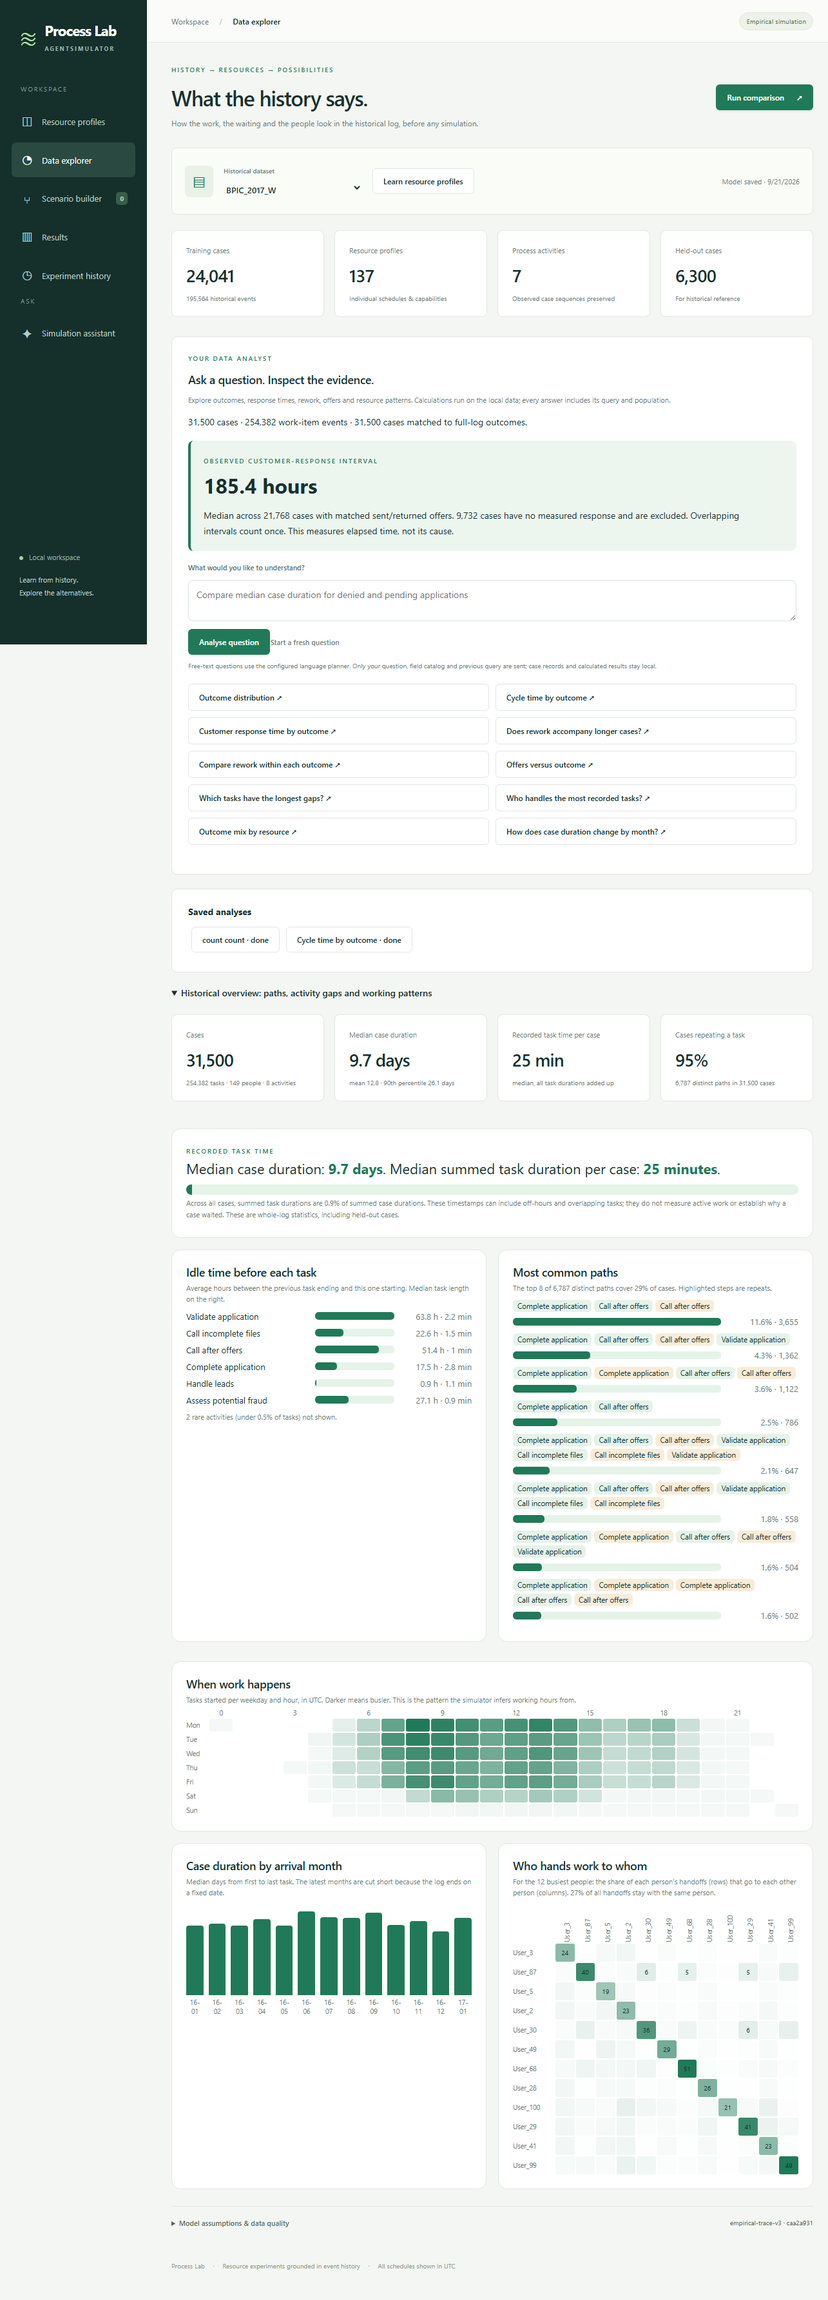
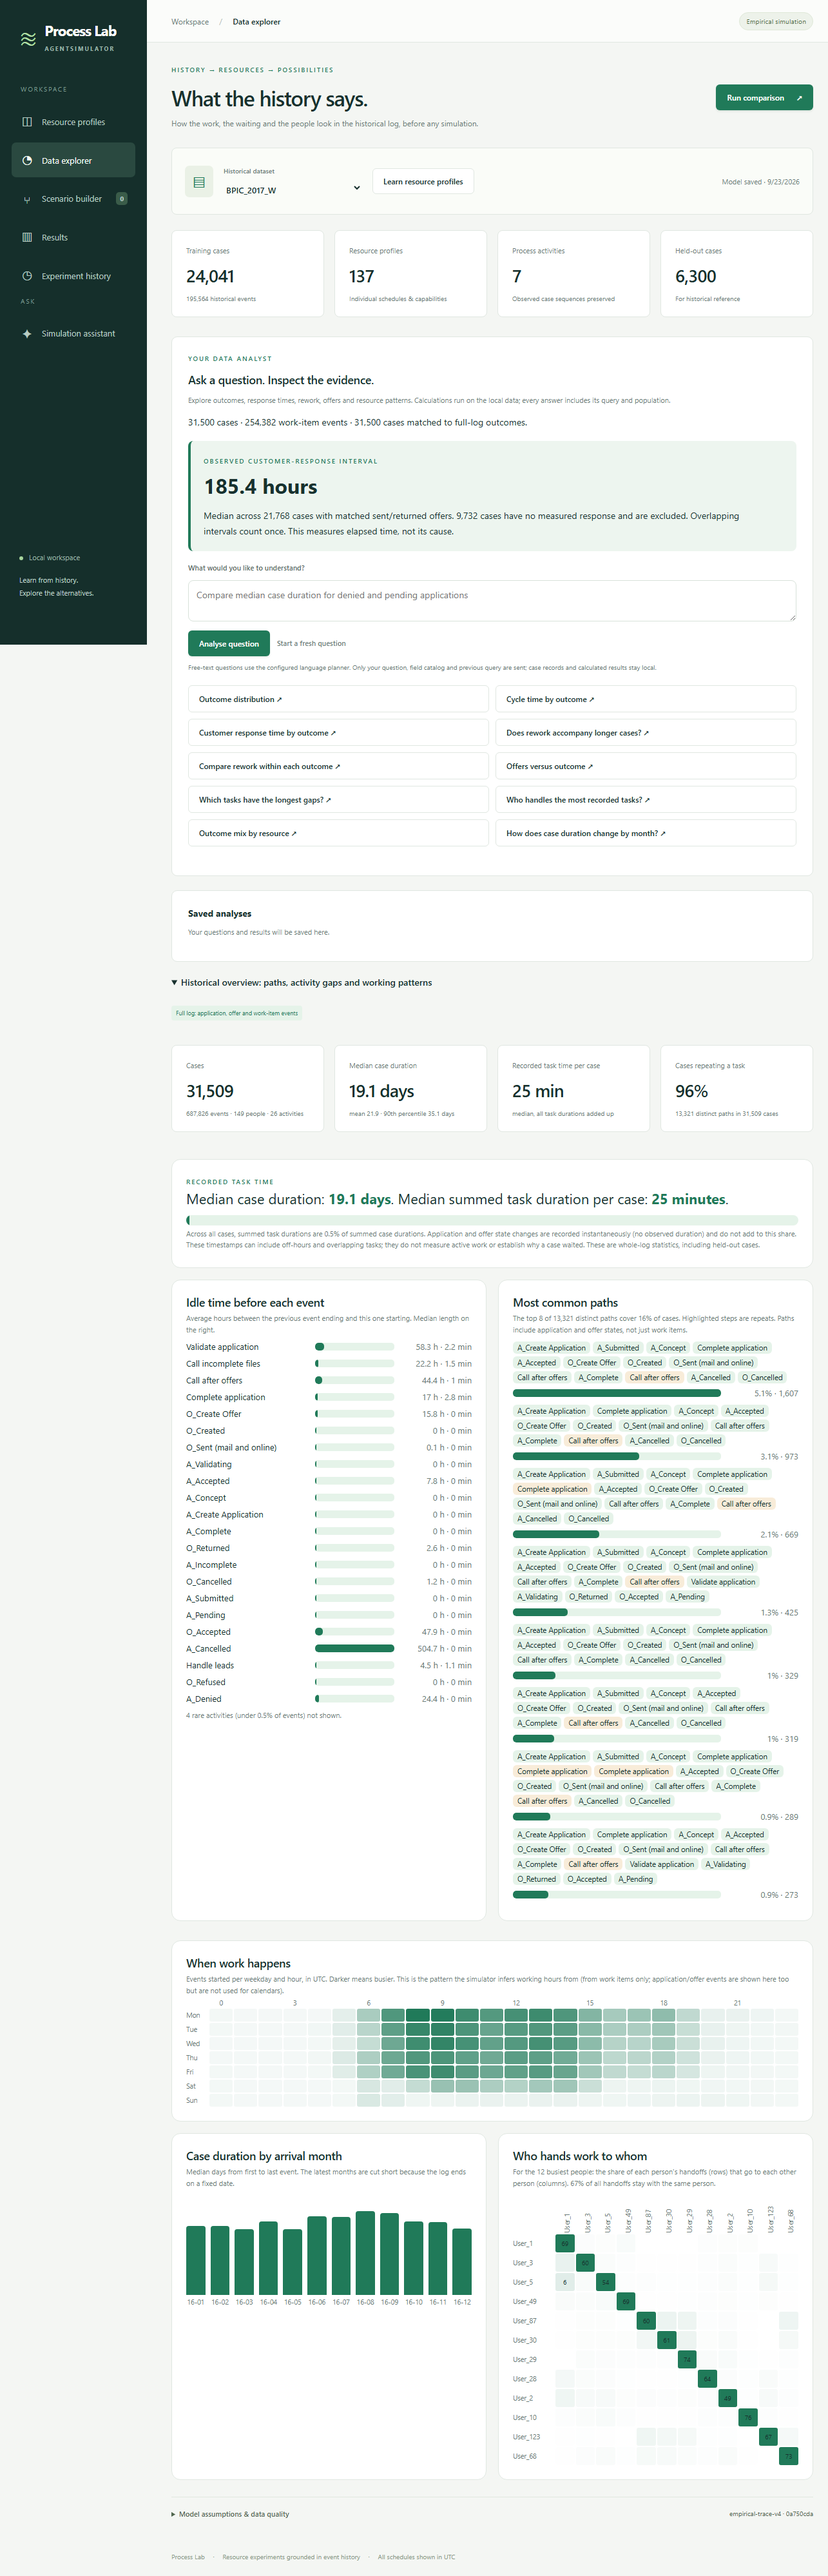
Docs: correct the headline cycle-time claim (9.7 -> 19.1 days) and its cause

diff --git a/PROJECT_GUIDE.md b/PROJECT_GUIDE.md
@@ -24,7 +24,7 @@
 
 **The five things the data actually says** (§3, §4):
 
-1. In BPI 2017, a typical case takes **9.7 days** door to door but only **~25 minutes of hands-on work**. Hands-on work is **0.9 %** of elapsed time. The rest is waiting.
+1. In BPI 2017, a typical case takes **19.1 days** door to door (using only the human work-item subset understates this at 9.7 days) but only **~25 minutes of hands-on work**. Hands-on work is **0.5 %** of elapsed time. The rest is waiting.
 2. Most of that waiting is **not** caused by lack of staff: system utilisation in the model is ~6 %. It is caused by *external* delays (customer callbacks, documents arriving).
 3. Consequently, **adding or removing people barely moves cycle time** (removing the single busiest person: −0.2 %; adding three copies of them: −0.2 %), while **halving the external delays** moves it by ~37 %.
 4. The one lever inside the organisation that *does* matter is **how work is allocated**: sending each task to the *earliest available qualified person* instead of the historically preferred person cuts queue wait by 96 % (61 h → 2 h) and cycle time by ~18 %.
@@ -155,7 +155,9 @@ All computed directly from `raw_data/BPIC_2017_W.csv`.
 | Typical single work item | 0.5–5 min (median 1.65 min) |
 | Median gap between two consecutive work items in a case | **4.3 h**, but for `Validate application` it is **21.9 h** (mean 64 h) and for `Call after offers` **17.3 h** (mean 51 h) |
 
-So a case is a ~25-minute job that takes ~10 days. **The improvement opportunity is in the gaps, not in the tasks.** Monthly median cycle time is remarkably flat (8.2–10.9 days), so the process is stable over the year — a good sign for training on the past to predict the future.
+So a case is a ~25-minute job that takes ~10 days by the work-item subset alone. **The improvement opportunity is in the gaps, not in the tasks.** Monthly median cycle time is remarkably flat (8.2–10.9 days), so the process is stable over the year — a good sign for training on the past to predict the future.
+
+**This table understates the true cycle time.** It's built from `W_` work items only — the last recorded event of a case is often the last thing a *human* did, not when the case actually closed. Data Explorer now also loads the full log (`A_`/`O_`/`W_` events, via `scripts/extract_full_log.py`) and the true median jumps to **19.1 days** (mean 21.9, p90 35.1) — nearly double. Touch-time share drops from 0.9% to 0.5%: waiting is even more dominant than this table shows. The gap is time between the last work item and the case's formal close (an automated step, or the customer simply not responding) — itself a finding, not an artefact. §6 and `WORKBENCH.md` have the detail; the simulator's own model (§5, §6) is unaffected, since it correctly uses only `W_` events for resource capacity regardless.
 
 ### 3.3 People: many generalists, moderate concentration, calendar of a real office
 - **149 resources.** Top 10 do 24 % of events, top 20 do 39 %, the bottom half of the workforce does only 13 %.
@@ -401,6 +403,18 @@ Baseline for these: mean cycle 327 h, mean queue wait 61.5 h, mean residual dela
     without AI, so the toggle implied the opposite of what was actually true and duplicated the
     presets with six dropdowns for no real benefit. A tenth preset, "Outcome mix by resource," was
     added in its place. See `WORKBENCH.md` ("Data Explorer as an analyst").
+12. **Data Explorer's own overview charts (idle time, common paths, hour-of-week heatmap, case
+    duration by month, handover matrix) were still `W_`-only** even after #11 gave the Data
+    Analyst the full log — the two features loaded different data. Fixed: `discover()` now
+    accepts an optional `full_events` frame (`webapp/workbench/full_log.py` streams the full XES
+    the same way `outcomes.py` does, pairing `W_` start/complete lifecycles and treating `A_`/`O_`
+    events as instantaneous) and uses it for these charts alone when available
+    (`raw_data/BPIC_2017_W.full_log.csv`, `scripts/extract_full_log.py`) — model version 4.
+    Resource profiles, calendars, templates and arrival days are computed from the `W_`-only frame
+    exactly as before; only the descriptive charts changed. This is what surfaced the corrected
+    19.1-day median cycle time in §3.2. Also fixed: `.actions` (the button row under the question
+    box and under a result) had no `display:flex`/`gap` rule at all — buttons sat touching, with
+    only a single collapsed inline-text space between them.
 
 **Still open**
 - **Keys:** `.env` holds ~13 credentials for several providers. It is git-ignored, but rotate any that were ever pasted into a chat, log or screenshot, and delete the ones this project does not use (it needs only DeepSeek and optionally LangSmith).

diff --git a/WORKBENCH.md b/WORKBENCH.md
@@ -205,6 +205,45 @@ missing-response denominators, filtering, conditional shares, source invalidatio
 planner boundaries, persistence and unsupported predictions. The local browser
 fixture checks charts, follow-up filtering, saved-result reload and mobile layout.
 
+#### The overview charts also use the full log now
+
+The Data Analyst above and the historical-overview charts (idle time, common paths,
+hour-of-week heatmap, case duration by month, handover matrix) used to read different
+data: the analyst joined the full log's case-level facts, but the overview charts were
+still built from the `W_` work-item CSV alone, understating the true process — a case's
+last recorded *work item* is often not when the case actually closed.
+
+```powershell
+./.venv/Scripts/python.exe scripts/extract_full_log.py `
+  raw_data/bpi2017/BPI_Challenge_2017.xes raw_data/BPIC_2017_W.full_log.csv
+```
+
+This streams the whole log — application (`A_*`), offer (`O_*`) and work-item (`W_*`)
+events — into a flat `case_id, activity, resource, start, end` CSV plus a provenance
+`.json`, the same pattern as `extract_outcomes.py`. Work items keep real durations from
+their start/complete lifecycle; every other activity is a single `complete` event with
+no matching start and is recorded as instantaneous (`start == end`), never fabricated.
+
+When this file exists, learning BPI 2017 again (model version 4) picks it up
+automatically and uses it **only** for the overview charts — `webapp/workbench/model.py`'s
+`discover()` takes it as an optional `full_events` argument that never touches resource
+profiles, calendars, templates or arrival days; those keep coming from the `W_`-only
+frame, so the simulator's resource-capacity model is byte-for-byte unaffected by whether
+a full log is available. `explore()`'s `full_log` flag tells the UI which data it's
+looking at, and its wording ("tasks" vs "events") follows accordingly.
+
+This is what corrected the headline cycle-time number: with the full log, median case
+duration is **19.1 days** (mean 21.9, p90 35.1), not the work-item-only 9.7 days — the
+"idle time before each event" chart now also shows the gap after the last work item and
+before the case's actual close (an automated step, or simply an unresponsive customer),
+which the work-item-only view couldn't see at all. Activity count rises from 8 to 26,
+touch-time share falls from 0.9% to 0.5%, and case count rises slightly (31,500 → 31,509)
+because a handful of applications have no work item at all yet still appear in the full
+log. Tests: `tests/test_full_log.py` (pairing logic, instantaneous non-`W_` events, a
+stray work-item `complete` with no matching `start` is skipped, not fabricated) and
+`tests/test_workbench.py::test_full_events_only_change_the_explorer_not_the_simulation_model`
+(resource profiles/templates/arrival days are identical with or without a full log).
+
 | Metric | Definition |
 | --- | --- |
 | Mean / median / p90 case duration | Elapsed hours from arrival to final task completion, including cases finishing after the horizon |

diff --git a/README.md b/README.md
@@ -13,8 +13,11 @@ see which changes actually matter.**
 
 ## What I found (BPI Challenge 2017, 31,500 loan applications, 149 people)
 
-1. **A typical case takes 9.7 days but needs only ~25 minutes of hands-on work** — 0.9% of
-   elapsed time. The rest is waiting.
+1. **A typical case takes 19.1 days but needs only ~25 minutes of hands-on work** — 0.5% of
+   elapsed time. The rest is waiting. (Using only the human work-item subset undercounts this:
+   it shows 9.7 days because it misses the time between the last work item and the case's actual
+   close — e.g. waiting on an automated or customer-driven step. Data Explorer now uses the full
+   log — applications, offers and work items — not just work items.)
 2. **Most waiting is not a staffing problem.** About 78% of simulated cycle time is external
    delay (customer callbacks, documents); ~21% is queueing; processing is ~1%.
 3. **Adding or removing people barely moves cycle time.** Removing the busiest person: −0.2%.
